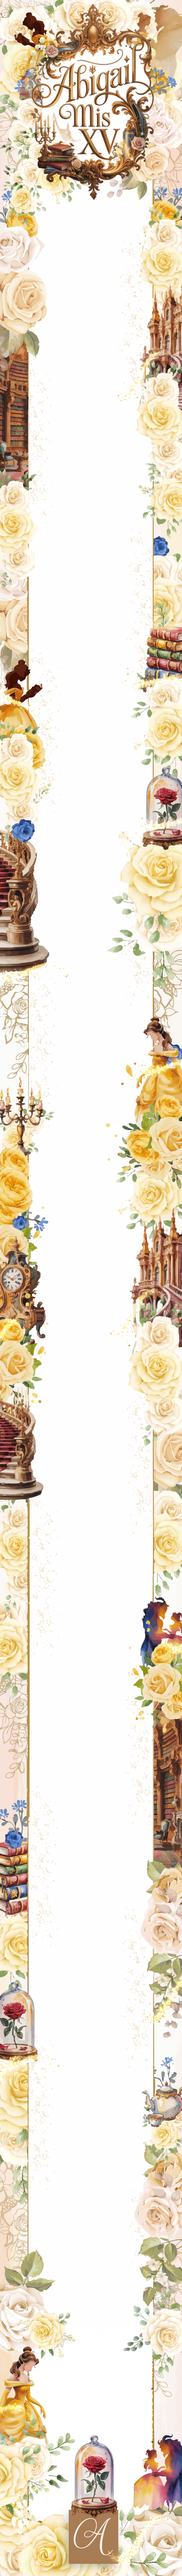
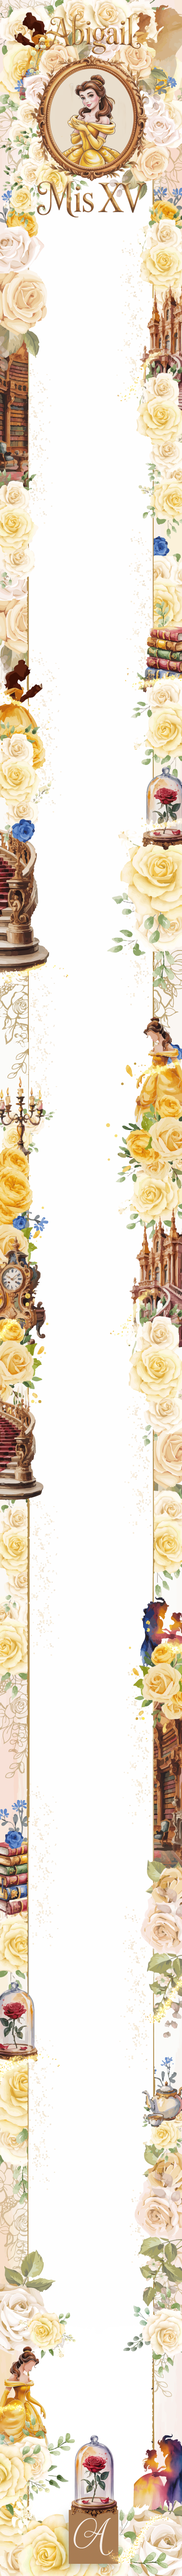
cambios

Changed region(s): [[0.1244, 0.0, 0.9022, 0.0937]]

diff --git a/invi_feb_06/invitacion_xv/Full-Arte-Abigail/invitacion.html b/invi_feb_06/invitacion_xv/Full-Arte-Abigail/invitacion.html
@@ -82,7 +82,7 @@
             /* Color del texto */
             text-align: center;
             /* Centrado */
-            margin-top: 400px;
+            margin-top: 300px;
             /* Separación superior exacta */
 
 
@@ -94,7 +94,7 @@
             font-size: 24px;
             color: #af8843;
             text-align: center;
-            margin-top: 32rem;
+            margin-top: 34rem;
             /* Espaciado respecto al nombre */
             line-height: 1.5;
             /* Altura de línea */
@@ -1361,16 +1361,14 @@
             </div>
             
             <p class="parrafo">La vida está hecha de momentos<br> únicos,
-                y este es uno de los<br>más importantes para mí.<br> Junto a mis padres: <br> <br><strong>Manuel Hernández
+                y este es uno de los<br>más importantes para mí.<br> Junto a mis padres: <br>
+<br> <strong>Manuel Hernández
                 Robles<br>
  y<br>
-
-                <br>
-                Andrea Cristina Lujan</strong><br> <br> te invito a celebrar conmigo<br> el inicio de una nueva etapa.
+               Andrea Espinosa Lujan </strong><br> <br> te invito a celebrar conmigo<br> el inicio de una nueva etapa.
                 <br>
                 <br>
-                Con amor, los padrinos<br>
-                de Abigail
+                Con amor, mis padrinos
                 <br>
                 <br>
                 José de Jesús Hernández<br>
@@ -1408,10 +1406,9 @@
                     <p class="section-content">Vistamos este día de elegancia y alegría:
                     </p>
                     <p class="section-content-hora">Formal</p>
-                    <p class="section-content">les pedimos con cariño que los colores <strong>dorado, rojo y azul</strong>, queden reservados para nuestra
-                        quinceañera.
+                    <p class="section-content"> Les pedimos con cariño, que la siguiente gama de colores queden reservados para nuestra quinceañera.
                     </p>
-
+					<div align="center"><img  src="img/telas.png" width="50%"  alt="telas"></div>
                 </div>
             </div>
 
@@ -1502,12 +1499,15 @@
                     <img class="gift-icon" src="img/icon-gift-2.png" alt="Lluvia de sobres" loading="lazy">
                     <h2 class="final-title">Lluvia de Sobres</h2>
                     <div class="gift-card reveal">
-                        <p class="final-content">Hoy comienza un nuevo capítulo en mi historia" Gracias por acompañarme
+                        <p class="final-content">Hoy comienza un nuevo capítulo en mi historia.<br>
+ Gracias por acompañarme
                             en
-                            este momento tan especial,</p> 
+                            este momento tan especial.</p> 
                         <p class="final-content">
-                            Si deseas regalarme algo más que tu compañía, un sobre con tus buenos deseos será parte de
-                            este sueño que apenas empieza.
+                           Tu compañía es el regalo más bonito.<br>
+ Si deseas obsequiarme algo, <br>
+habrá una lluvia de sobres, <br>
+durante mi evento.
                         </p>
                     </div>
                 </div>
